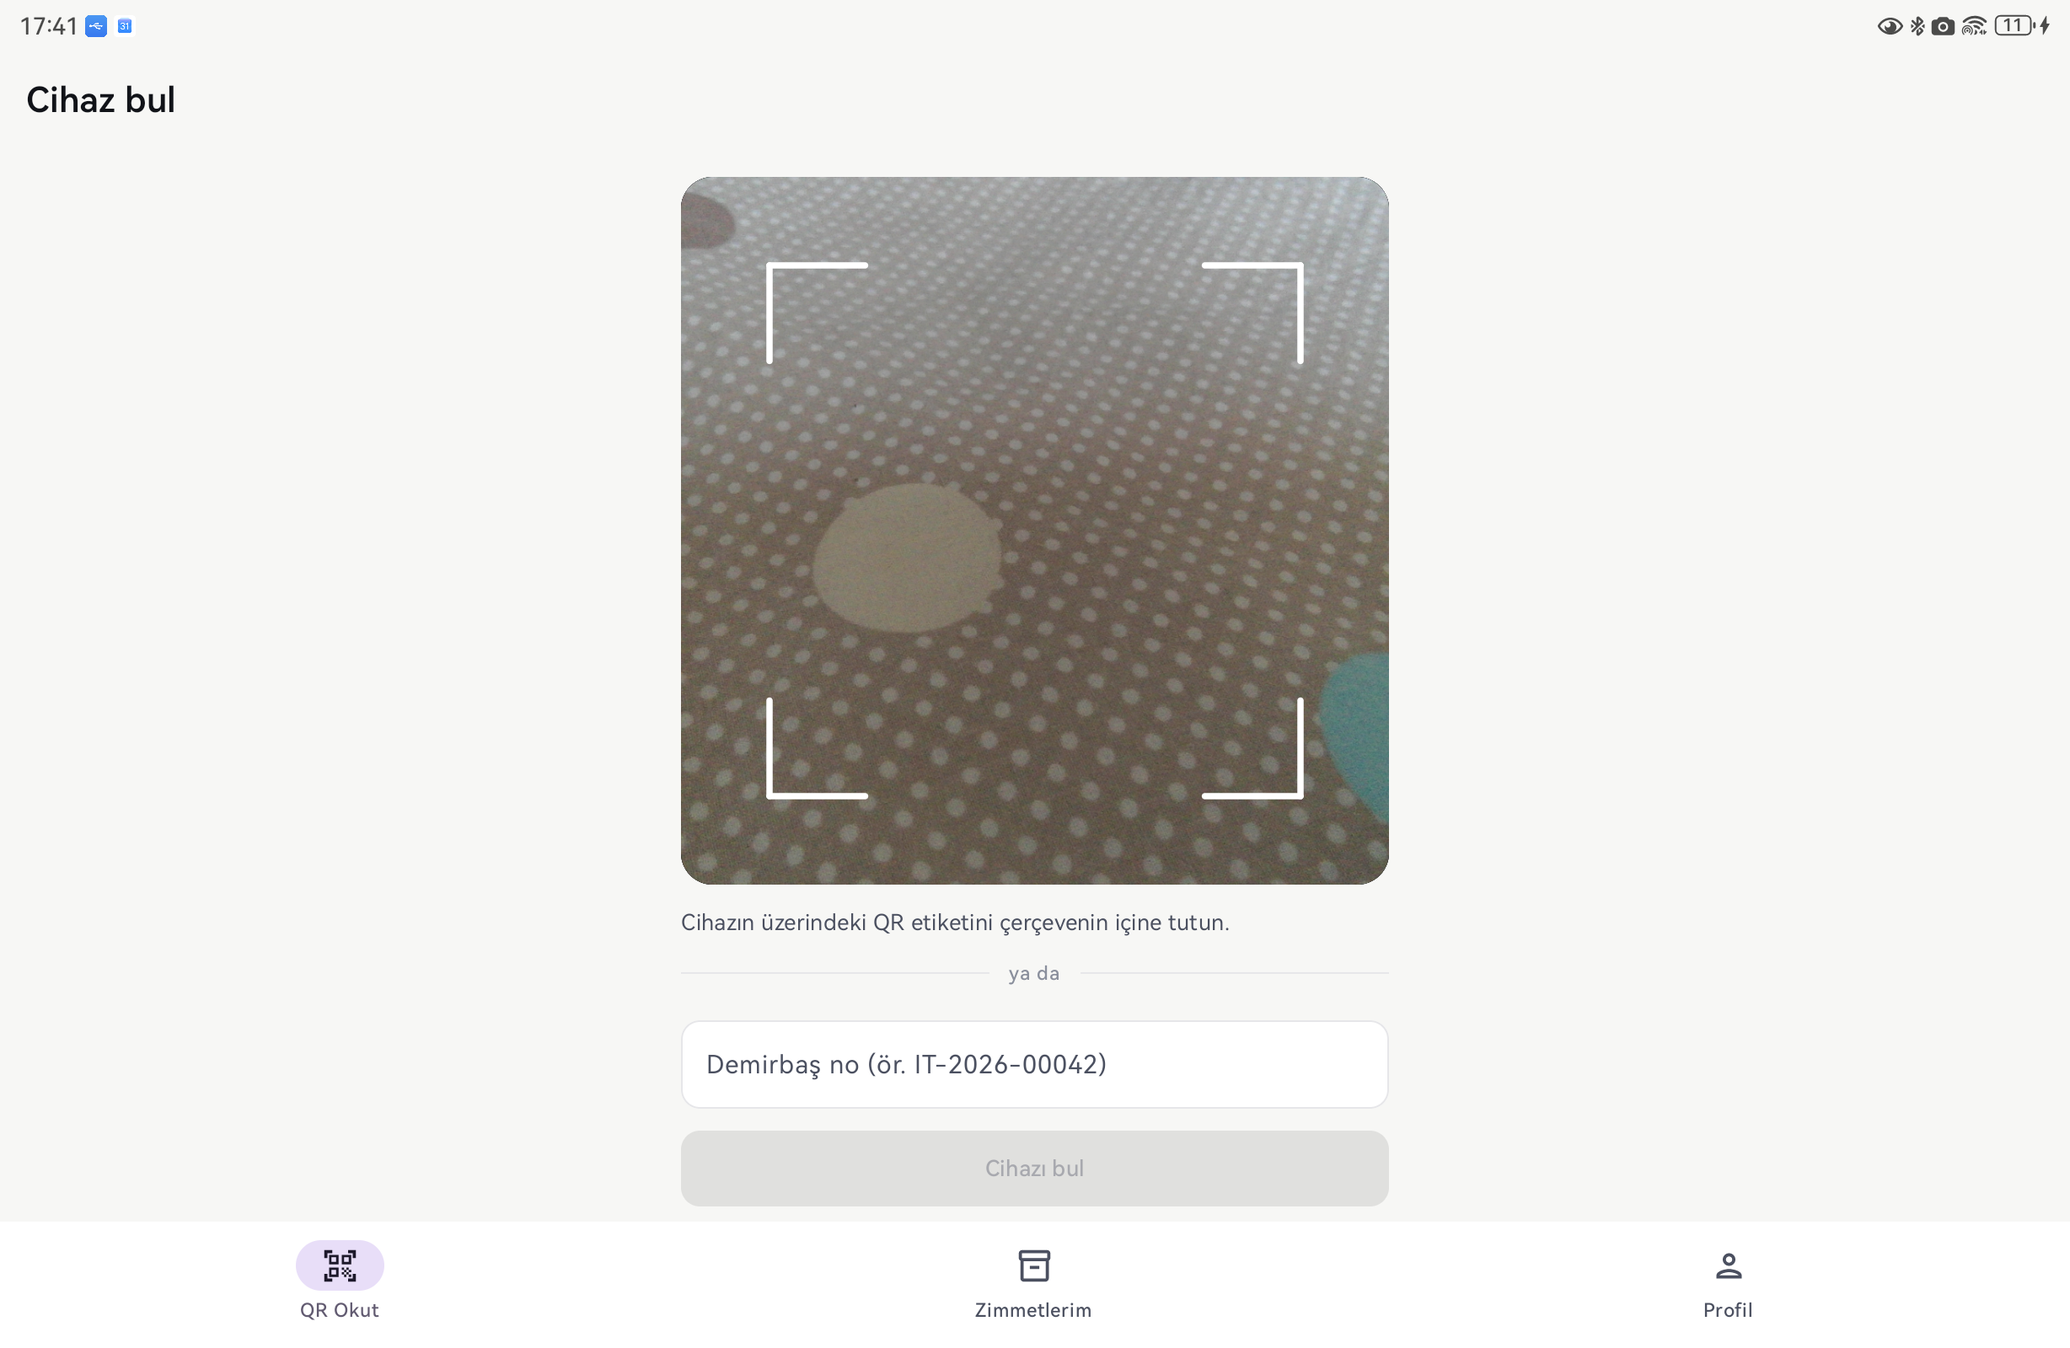
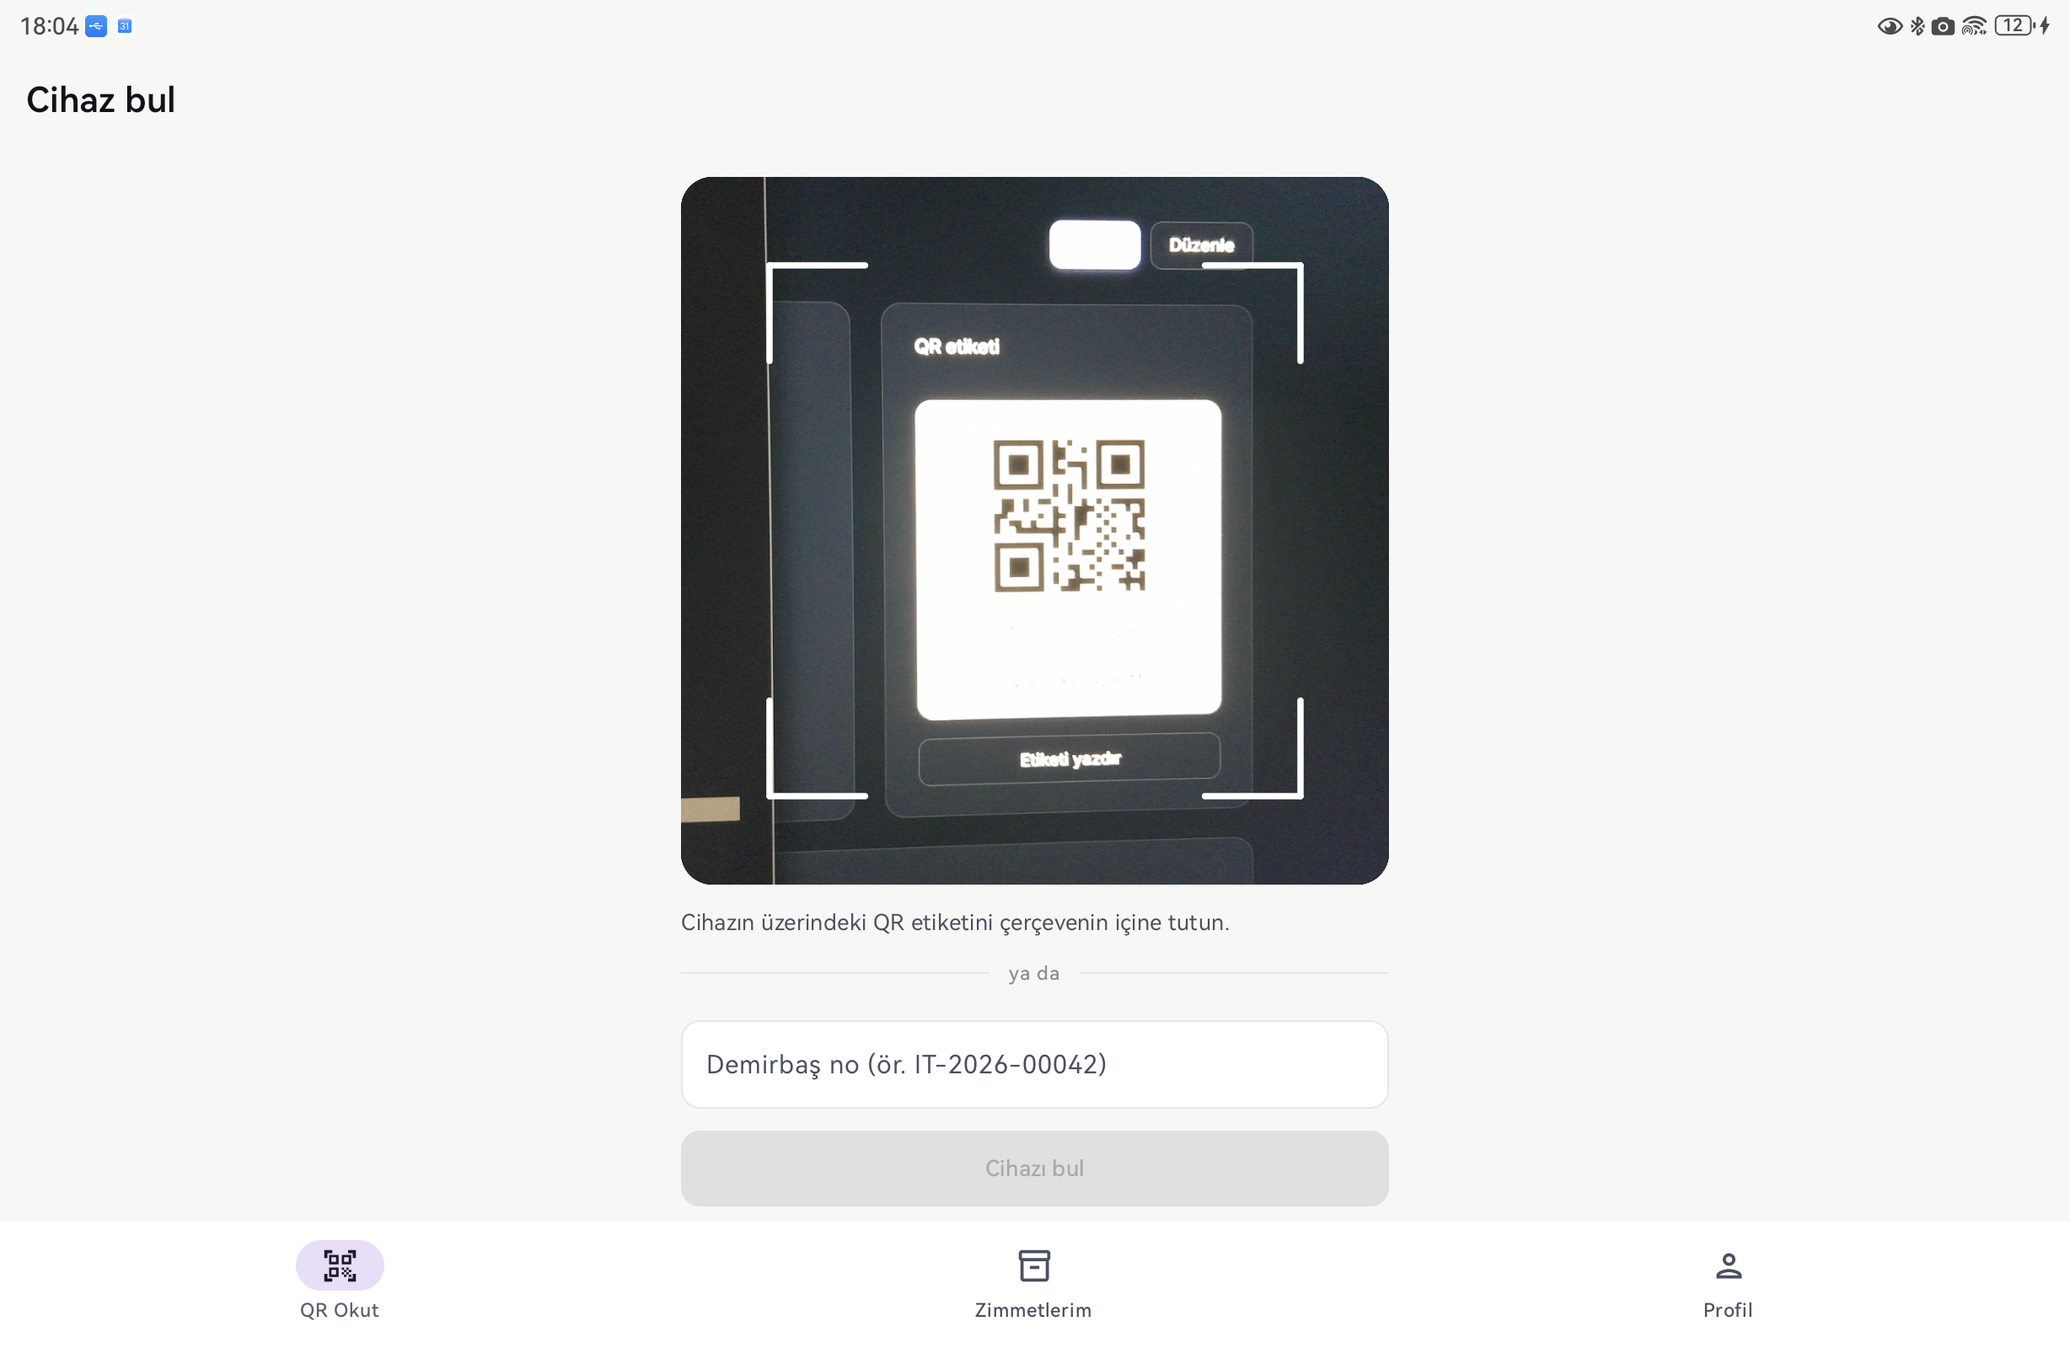
docs: simplify README and retake QR scan screenshot

Changed region(s): [[0.3094, 0.125, 0.6808, 0.6562], [0.0, 0.0, 0.0309, 0.0312]]

diff --git a/README.md b/README.md
@@ -1,267 +1,137 @@
-# IT Demirbaş ve Zimmet Yönetim Sistemi
+# IT Zimmet Sistemi
 
-Bir kurumun bilgisayar, monitör, yazıcı, telefon gibi BT cihazlarını kayıt altına alan,
-hangi cihazın kimde olduğunu takip eden ve teslim/iade tutanaklarını hazırlayan bir sistem.
-Web yönetim paneli ve Kotlin ile yazılmış bir Android uygulamasından oluşuyor.
+Bir kurumdaki bilgisayar, monitör, yazıcı, telefon gibi cihazların kimde olduğunu takip etmek için
+yaptığım bir proje. Genelde bu iş Excel dosyalarıyla ya da kâğıt tutanaklarla yürüyor, cihaz kimde,
+ne zaman verildi, garantisi ne zaman bitiyor gibi bilgiler kayboluyor. Bu sistemde hepsi tek yerde duruyor.
 
-Kâğıt ya da Excel üzerinden yürüyen zimmet takibini tek bir yerde topluyor: cihaz kime verildi,
-ne zaman geri alındı, garantisi ne zaman bitiyor, arızalı mı, hepsi kayıt altında.
+Proje üç parçadan oluşuyor:
 
-## Ekran Görüntüleri
+- **API**: Node.js + Express + PostgreSQL
+- **Web paneli**: React, yöneticinin kullandığı arayüz
+- **Android uygulaması**: Kotlin + Jetpack Compose, cihazın QR etiketini okutup bilgilerine bakmak için
 
-| Gösterge paneli | Cihaz listesi |
+## Ekran görüntüleri
+
+### Web
+
+| Gösterge paneli | Cihazlar |
 | --- | --- |
-| ![Gösterge paneli](docs/ekran-goruntuleri/gosterge-paneli.png) | ![Cihaz listesi](docs/ekran-goruntuleri/cihazlar.png) |
+| ![Gösterge paneli](docs/ekran-goruntuleri/gosterge-paneli.png) | ![Cihazlar](docs/ekran-goruntuleri/cihazlar.png) |
 
-| Cihaz detayı (QR kod ve geçmiş) | Zimmet tutanağı |
+| Cihaz detayı | Zimmet tutanağı |
 | --- | --- |
 | ![Cihaz detayı](docs/ekran-goruntuleri/cihaz-detay.png) | ![Zimmet tutanağı](docs/ekran-goruntuleri/tutanak.png) |
 
-| Giriş ekranı | Personel listesi |
+| Giriş | Personel |
 | --- | --- |
 | ![Giriş](docs/ekran-goruntuleri/giris.png) | ![Personel](docs/ekran-goruntuleri/personel.png) |
 
-**Mobil uygulama**
+### Mobil
 
 | Giriş | QR okutma |
 | --- | --- |
 | ![Mobil giriş](docs/ekran-goruntuleri/mobil-giris.png) | ![QR okutma](docs/ekran-goruntuleri/mobil-qr.png) |
 
-| Cihaz detayı (admin) | Zimmetlerim (personel) |
+| Cihaz detayı | Zimmetlerim |
 | --- | --- |
 | ![Mobil cihaz detayı](docs/ekran-goruntuleri/mobil-cihaz.png) | ![Zimmetlerim](docs/ekran-goruntuleri/mobil-zimmetlerim.png) |
 
-## Özellikler
+## Neler yapılabiliyor
 
-**Cihaz yönetimi**
-- Cihaz ekleme, düzenleme, silme (tür, marka, model, seri no, alım tarihi, garanti bitişi)
-- Her cihaza otomatik demirbaş numarası verilir (ör. `IT-2026-00042`), numara her yıl baştan başlar
-- Her cihaz için QR kod üretilir
-- Durum takibi: Stokta, Zimmetli, Arızalı, Tamirde, Hurda
-- Cihazın tüm geçmişi (eklendi, zimmetlendi, iade edildi, arıza bildirildi...) zaman çizelgesinde görünür
-- Excel'e dışa aktarma ve hazır şablonla Excel'den toplu cihaz ekleme
+- Cihaz ekleme, düzenleme, silme. Her cihaza otomatik demirbaş numarası veriliyor (`IT-2026-00042` gibi)
+  ve bu numarayla bir QR etiket oluşuyor.
+- Cihazı personele zimmetleme, iade alma ve bunların yazdırılabilir tutanağı.
+- Cihaz durumu: stokta, zimmetli, arızalı, tamirde, hurda. Her değişiklik cihazın geçmişine yazılıyor.
+- Excel'den toplu cihaz ekleme ve listeyi Excel'e aktarma.
+- Gösterge panelinde cihaz sayıları, garantisi 30 gün içinde bitecek cihazlar ve son işlemler.
+- Personel ekleyince şifre sistem tarafından üretilip e-postayla gidiyor, ilk girişte değiştirmek zorunlu.
+- Şifremi unuttum: e-postaya 6 haneli kod geliyor, kodla yeni şifre belirleniyor.
+- İki rol var. Yönetici her şeyi yönetiyor, personel sadece kendi üzerindeki cihazları görüyor.
+- Mobil uygulamada yönetici QR okutarak cihazı buluyor, personel kendi zimmetlerini görüyor.
 
-**Zimmet işlemleri**
-- Cihazı personele zimmetleme ve iade alma
-- Yazdırılabilir zimmet teslim ve iade tutanakları
-- Bir cihazın aynı anda sadece bir açık zimmeti olabilir (veritabanı seviyesinde garanti)
+## Kullandıklarım
 
-**Personel ve departmanlar**
-- Personel ekleme; şifre sistem tarafından üretilip e-postayla gönderilir
-- İlk girişte geçici şifrenin değiştirilmesi zorunlu
-- Departman yönetimi
+- **Backend:** Node.js, Express 5, TypeScript, Prisma, PostgreSQL, Zod, JWT
+- **Web:** React 19, Vite, React Router, TanStack Query
+- **Mobil:** Kotlin, Jetpack Compose, Retrofit, DataStore, CameraX, ML Kit
+- **Diğer:** Docker Compose (veritabanı ve test için mail sunucusu), ExcelJS, Nodemailer
 
-**Gösterge paneli**
-- Durumlara ve türlere göre cihaz sayıları
-- Garantisi 30 gün içinde bitecek cihazlar
-- Son yapılan işlemler
-
-**Roller**
-- **Admin:** her şeyi yönetir.
-- **Personel:** sadece kendi üzerindeki zimmetleri ve tutanaklarını görür.
-
-**Mobil uygulama (Android)**
-- Admin, cihazın üzerindeki QR etiketi okutarak cihazın bilgilerine, kimde olduğuna ve geçmişine ulaşır
-- Kamera yoksa demirbaş numarası elle yazılarak da aranabilir
-- Personel kendi üzerindeki ve geçmişte kullandığı cihazları görür
-- Geçici şifreyle girenler önce şifresini değiştirir (kurallar yazarken kontrol edilir)
-- Uygulama kapanıp açılınca oturum devam eder, token süresi dolunca arka planda yenilenir
-
-**Diğer**
-- Açık / koyu tema
-- Telefonda da kullanılabilen arayüz (alt sekme çubuğu)
-- Türkçe karakterlere duyarlı arama ("YILMAZ" yazınca "Yılmaz" da bulunur)
-
-## Kullanılan Teknolojiler
-
-| Katman | Teknoloji |
-| --- | --- |
-| Backend (API) | Node.js, Express 5, TypeScript |
-| Veritabanı | PostgreSQL 17, Prisma ORM |
-| Doğrulama | Zod |
-| Kimlik doğrulama | JWT (access + refresh token), bcrypt |
-| Frontend (Web) | React 19, Vite, React Router, TanStack Query |
-| Excel | ExcelJS |
-| E-posta | Nodemailer (geliştirmede Mailpit) |
-| Mobil | Kotlin, Jetpack Compose, Material 3, Navigation Compose |
-| Mobil ağ / veri | Retrofit, OkHttp, kotlinx.serialization, DataStore |
-| Mobil QR okuma | CameraX, ML Kit Barcode Scanning |
-| Altyapı | Docker Compose |
-
-## Proje Yapısı
-
-Proje tek bir depo içinde birden fazla uygulama barındıran (monorepo) bir yapıda, npm workspaces kullanılıyor.
+## Klasör yapısı
 
 ```
-it-zimmet-sistemi/
-├── apps/
-│   ├── api/                  → Backend (REST API)
-│   │   ├── prisma/
-│   │   │   ├── schema.prisma → Veritabanı tabloları
-│   │   │   ├── migrations/   → Veritabanı değişiklik geçmişi
-│   │   │   └── seed.ts       → İlk admin ve örnek departmanlar
-│   │   └── src/
-│   │       ├── config/       → Ortam değişkenlerinin kontrolü
-│   │       ├── lib/          → Ortak yardımcılar (şifre, e-posta, arama, sayfalama)
-│   │       ├── middlewares/  → Giriş kontrolü, doğrulama, hata yakalama
-│   │       ├── modules/      → Her özellik kendi klasöründe
-│   │       │   ├── auth/         giriş, çıkış, token yenileme, şifre değiştirme
-│   │       │   ├── devices/      cihazlar, zimmet/iade, Excel içe/dışa aktarma
-│   │       │   ├── assignments/  zimmet listesi ve tutanak verisi
-│   │       │   ├── users/        personel işlemleri
-│   │       │   ├── departments/  departmanlar
-│   │       │   └── dashboard/    gösterge paneli verileri
-│   │       ├── app.ts        → Express uygulaması ve rotalar
-│   │       └── server.ts     → Sunucuyu başlatan dosya
-│   │
-│   ├── web/                  → Frontend (yönetim paneli)
-│   │   └── src/
-│   │       ├── api/          → API istekleri ve tipler
-│   │       ├── auth/         → Oturum yönetimi
-│   │       ├── components/   → Ortak bileşenler (menü, modal, ikonlar)
-│   │       ├── lib/          → Tarih biçimleme, tema, yardımcı hook'lar
-│   │       ├── pages/        → Sayfalar
-│   │       └── styles.css    → Tüm stiller
-│   │
-│   └── mobile/               → Android uygulaması (Kotlin + Jetpack Compose)
-│       └── app/src/main/java/com/itzimmet/mobile/
-│           ├── data/
-│           │   ├── remote/   → Retrofit arayüzü, API modelleri, token ekleme ve yenileme
-│           │   ├── local/    → Refresh token'ın saklandığı DataStore
-│           │   └── *Repository.kt → Ekranların veriye ulaştığı katman
-│           ├── ui/           → Ekranlar; her ekranın kendi ViewModel'i var (MVVM)
-│           │   ├── login/, password/, home/, scan/, device/, assignments/, profile/
-│           │   ├── components/ → Ortak parçalar (kart, rozet, form alanları)
-│           │   └── theme/    → Renkler (web ile aynı)
-│           ├── util/         → Türkçe etiketler, tarih biçimleme
-│           └── AppContainer.kt → Bağımlılıkların kurulduğu yer
-│
-├── docker-compose.yml        → PostgreSQL ve Mailpit
-└── package.json              → Workspace tanımı ve ortak komutlar
+apps/
+├── api/          Backend
+│   ├── prisma/   Veritabanı şeması, migration'lar, başlangıç verisi
+│   └── src/
+│       ├── modules/      auth, devices, assignments, users, departments, dashboard
+│       ├── middlewares/  giriş kontrolü, veri doğrulama, hata yakalama
+│       └── lib/          şifre, e-posta, arama gibi ortak kodlar
+├── web/          Yönetim paneli
+│   └── src/      pages, components, api, auth
+└── mobile/       Android uygulaması
+    └── app/src/main/java/com/itzimmet/mobile/
+        ├── data/ API çağrıları ve token saklama
+        └── ui/   ekranlar ve ViewModel'ler
 ```
 
-Backend'de her modül kendi `routes` (uç noktalar), `schemas` (gelen verinin doğrulanması) ve
-`service` (iş mantığı) dosyalarına ayrılmış durumda.
+Backend'de her modülde üç dosya var: `routes` (uç noktalar), `schemas` (gelen verinin kontrolü) ve
+`service` (asıl iş). Mobil uygulamayı MVVM ile yazdım; ekranlar sadece gösteriyor, veriyi ViewModel tutuyor.
 
-Mobil uygulama MVVM yapısında: ekran (Composable) sadece çizer, ViewModel durumu tutar,
-Repository API ile konuşur. Hangi ekranın açılacağına oturum durumu karar verir
-(giriş yapılmamış → giriş, geçici şifre → şifre değiştirme, aksi halde ana ekran).
+## Birkaç not
 
-## Veritabanı
-
-| Tablo | Açıklama |
-| --- | --- |
-| `departments` | Departmanlar |
-| `users` | Personel ve adminler |
-| `refresh_tokens` | Oturum yenileme anahtarları (sadece hash'i saklanır) |
-| `devices` | Cihazlar |
-| `asset_tag_counters` | Demirbaş numarası için yıllık sayaç |
-| `assignments` | Zimmet kayıtları (kim, ne zaman aldı, ne zaman iade etti) |
-| `device_events` | Cihaz üzerinde yapılan her işlemin kaydı |
-
-Silinen kullanıcı ve cihazlar veritabanından tamamen kaldırılmıyor, sadece silindi olarak işaretleniyor.
-Böylece geçmiş zimmet kayıtları bozulmuyor.
-
-## Güvenlik
-
-- Şifreler bcrypt ile hash'lenerek saklanır.
-- Access token 15 dakika geçerli, sadece bellekte tutulur.
-- Refresh token her kullanımda yenilenir. Daha önce kullanılmış bir token tekrar gelirse
-  çalınmış sayılır ve kullanıcının tüm oturumları kapatılır.
-- Şifre kuralı: en az 10 karakter, büyük harf, küçük harf ve rakam.
-- Gelen tüm veriler Zod ile doğrulanır.
-- Helmet ve CORS ayarları yapılmıştır.
+- Silinen personel ve cihazlar veritabanından tamamen silinmiyor, silindi diye işaretleniyor. Yoksa eski
+  zimmet kayıtları bozulurdu.
+- Bir cihazın aynı anda iki kişiye zimmetlenmemesini sadece kodda değil veritabanında da (kısmi unique index)
+  engelledim.
+- Giriş için JWT kullanıyorum. Refresh token her kullanımda değişiyor, eski bir token tekrar gelirse
+  o kullanıcının bütün oturumları kapanıyor.
+- Aramada Türkçe karakter sorunu vardı ("YILMAZ" yazınca "Yılmaz" bulunmuyordu), onu da düzelttim.
 
 ## Kurulum
 
-**Gereksinimler:** Node.js 22+, Docker
+Node.js 22 ve Docker gerekli.
 
 ```bash
-# 1. Depoyu klonla
 git clone https://github.com/zerenbiber/it-zimmet-sistemi.git
 cd it-zimmet-sistemi
 
-# 2. Ortam dosyalarını oluştur
 cp .env.example .env
 cp apps/api/.env.example apps/api/.env
 
-# 3. Veritabanı ve mail sunucusunu başlat
 docker compose up -d
-
-# 4. Paketleri yükle
 npm install
 
-# 5. Veritabanını hazırla
 npm run db:generate --workspace apps/api
 npm run db:migrate
 npm run db:seed
-npm run db:demo   # isteğe bağlı: örnek personel ve cihazlar
+npm run db:demo        # örnek personel ve cihazlar (isteğe bağlı)
 
-# 6. Uygulamaları çalıştır (iki ayrı terminalde)
-npm run dev:api
-npm run dev:web
+npm run dev:api        # ayrı terminalde
+npm run dev:web        # ayrı terminalde
 ```
 
-| Adres | Ne var |
-| --- | --- |
-| http://localhost:5173 | Web arayüzü |
-| http://localhost:4000/api | API |
-| http://localhost:8025 | Mailpit (gönderilen e-postalar burada görünür) |
+- Web: http://localhost:5173
+- Gönderilen e-postalar (Mailpit): http://localhost:8025
+- Veritabanını görmek için: `npm run db:studio` → http://localhost:5555
 
-**İlk giriş:** `admin@zimmet.local` / `Admin123!` (ilk girişte şifre değiştirmeniz istenir)
+Yönetici girişi `admin@zimmet.local` / `Admin123!` (ilk girişte şifre değiştirmeniz istenir).
+Örnek personelden biriyle denemek için `can.yildiz@zimmet.local` / `Personel2026`.
 
-`npm run db:demo` ile eklenen örnek personel `elif.demir@zimmet.local`, `can.yildiz@zimmet.local` gibi
-adreslerle ve `Personel2026` şifresiyle giriş yapabilir.
+### Mobil
 
-Veritabanını tarayıcıda görmek için `npm run db:studio` (http://localhost:5555).
-
-### Mobil uygulama
-
-**Gereksinimler:** Android Studio, JDK 17
-
-1. Android Studio'da `apps/mobile` klasörünü açın.
-2. API yukarıdaki adımlarla çalışıyor olmalı.
-3. Emülatörde çalıştırın. Emülatör bilgisayara `10.0.2.2` adresiyle ulaşır, varsayılan ayar budur.
-
-Gerçek telefonda denemek için telefon ve bilgisayar aynı ağda olmalı. `apps/mobile/local.properties`
-dosyasına bilgisayarın yerel IP adresini yazın:
+`apps/mobile` klasörünü Android Studio'da açıp çalıştırmak yeterli. API çalışıyor olmalı.
+Emülatör bilgisayara `10.0.2.2` üzerinden bağlanıyor. Gerçek telefonda denerken
+`apps/mobile/local.properties` dosyasına bilgisayarın IP adresini yazmak gerekiyor:
 
 ```properties
 zimmet.apiUrl=http://192.168.1.20:4000/api/
 ```
 
-Komut satırından derlemek için: `cd apps/mobile && ./gradlew assembleDebug`
+Telefon USB ile bağlıysa `adb reverse tcp:4000 tcp:4000` komutundan sonra
+`http://localhost:4000/api/` adresi de çalışıyor.
 
-## API Uç Noktaları
+## Eksikler / sonraki adımlar
 
-| Metot | Adres | Açıklama |
-| --- | --- | --- |
-| POST | `/api/auth/login` | Giriş |
-| POST | `/api/auth/refresh` | Token yenileme |
-| POST | `/api/auth/logout` | Çıkış |
-| GET | `/api/auth/me` | Giriş yapan kullanıcı |
-| POST | `/api/auth/change-password` | Şifre değiştirme |
-| GET | `/api/dashboard` | Gösterge paneli verileri |
-| GET / POST / PATCH / DELETE | `/api/departments` | Departman işlemleri |
-| GET / POST / PATCH / DELETE | `/api/users` | Personel işlemleri |
-| POST | `/api/users/:id/reset-password` | Yeni geçici şifre gönderme |
-| GET / POST / PATCH / DELETE | `/api/devices` | Cihaz işlemleri |
-| GET | `/api/devices/by-tag/:assetTag` | Demirbaş numarasıyla (QR) cihaz bulma |
-| POST | `/api/devices/:id/assign` | Zimmetleme |
-| POST | `/api/devices/:id/return` | İade alma |
-| POST | `/api/devices/:id/status` | Durum değiştirme |
-| GET | `/api/devices/export` | Excel'e aktarma |
-| GET | `/api/devices/import-template` | Excel içe aktarma şablonu |
-| POST | `/api/devices/import` | Excel'den toplu ekleme |
-| GET | `/api/assignments` | Zimmet listesi |
-| GET | `/api/assignments/:id` | Tutanak verisi |
-
-## Yol Haritası
-
-- [x] Backend API ve veritabanı
-- [x] Web yönetim paneli
-- [x] Excel içe / dışa aktarma
-- [x] Zimmet tutanakları
-- [x] Mobil uygulama: QR ile cihaz bulma, personelin kendi zimmetleri
-- [ ] Mobilden zimmetleme ve iade alma
-- [ ] Testler
+- Mobilden zimmetleme ve iade alma
+- Testler
+- Personelin mobilden arıza bildirebilmesi
